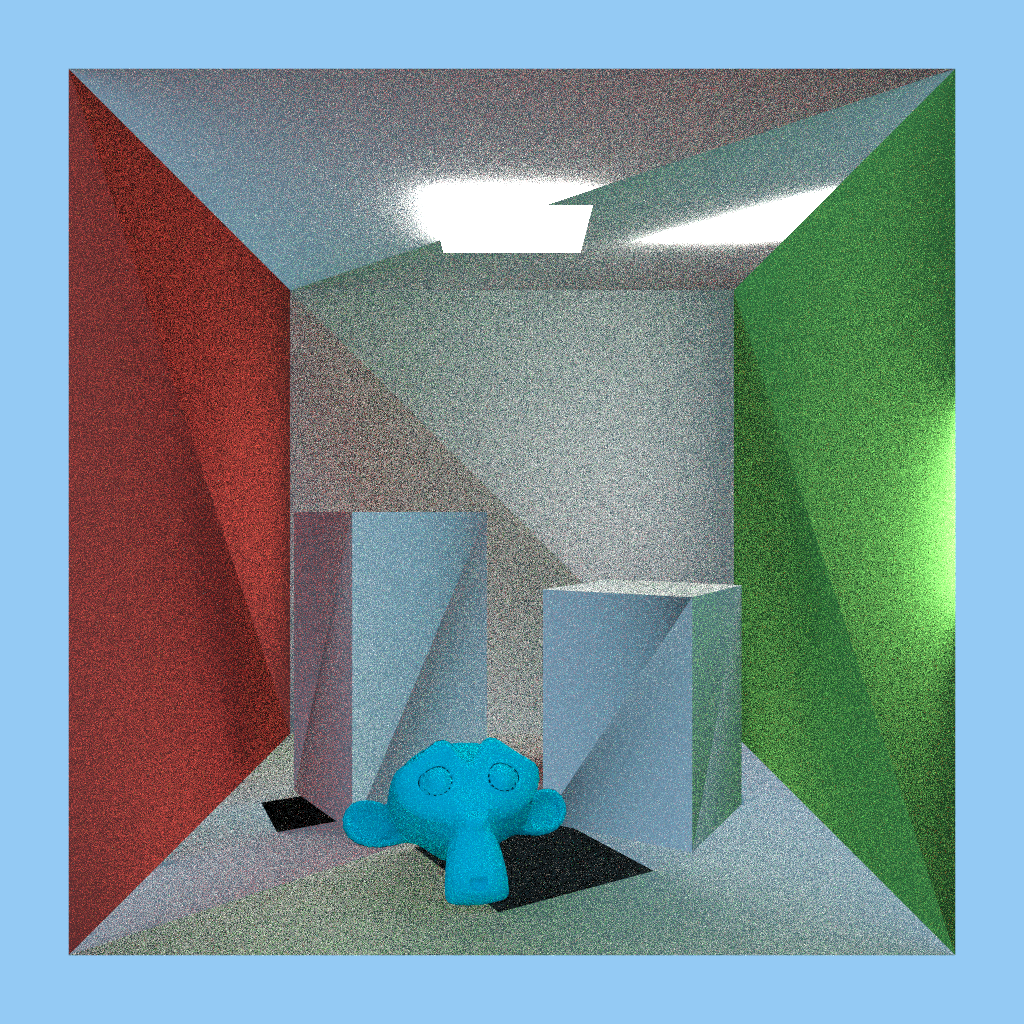
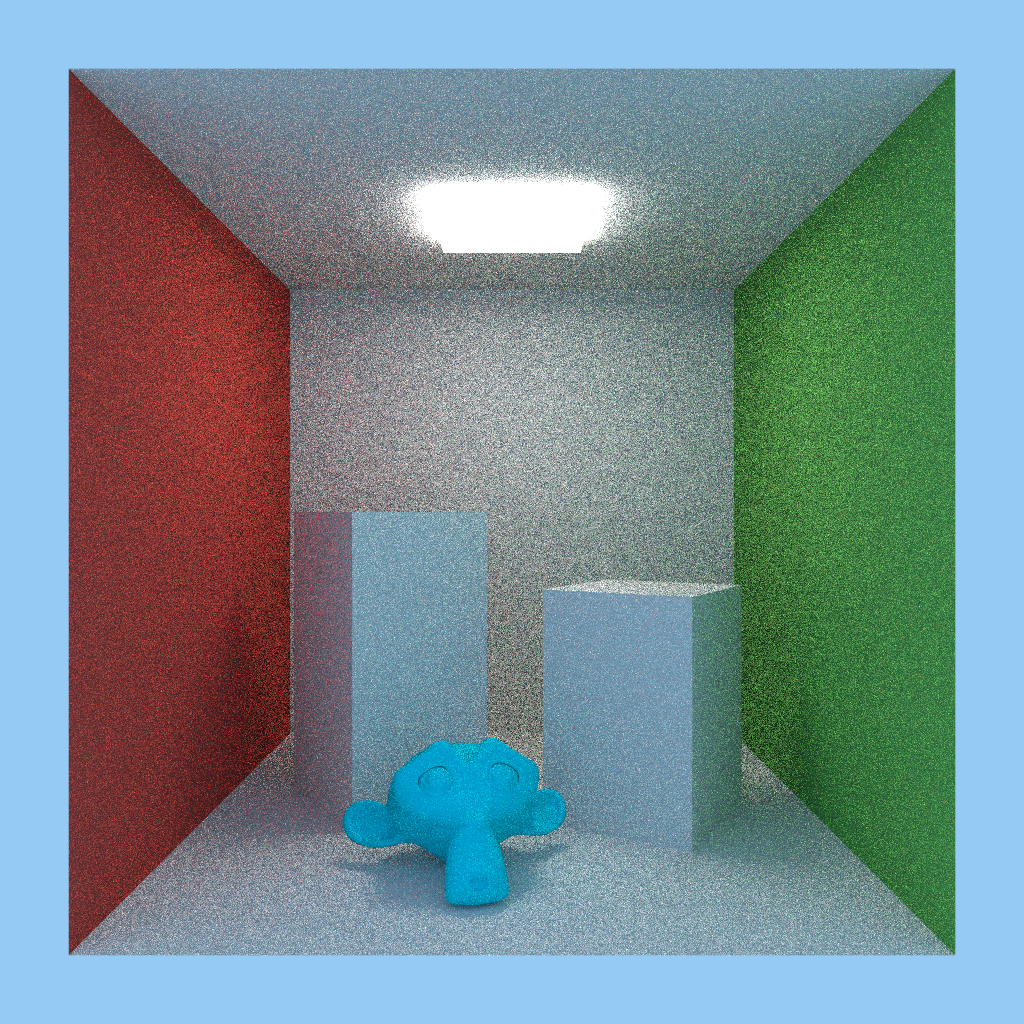
geometry fixed

diff --git a/src/integrator.cpp b/src/integrator.cpp
@@ -112,10 +112,10 @@ glm::vec3 PathTracedIntegrator::trace(Ray const& ray, Sampler& sampler) const
 			glm::vec3 const rayDirection = glm::vec3(current.D.x, current.D.y, current.D.z);
 
 			// Interpolate triangle data according to hit UV
-			glm::vec2 const uv			= { current.hit.u, current.hit.v };
-			glm::vec3 const position	= v0.position + uv.x * (v1.position - v0.position) + uv.y * (v2.position - v0.position);
-			glm::vec3 const normal		= glm::normalize(v0.normal + uv.x * v1.normal + uv.y * v2.normal);
-			glm::vec3 const tangent		= glm::normalize(v0.tangent + uv.x * v1.tangent + uv.y * v2.tangent);
+			glm::vec3 const barycentric	= { current.hit.u, current.hit.v, 1.0F - current.hit.u - current.hit.v };
+			glm::vec3 const position	= barycentric.x * v0.position + barycentric.y * v1.position + barycentric.z * v2.position;
+			glm::vec3 const normal		= glm::normalize(barycentric.x * v0.normal + barycentric.y * v1.normal + barycentric.z * v2.normal);
+			glm::vec3 const tangent		= glm::normalize(barycentric.x * v0.tangent + barycentric.y * v1.tangent + barycentric.z * v2.tangent);
 
 			// Set up TBN matrix for global/local frame conversion (also adjusts normal and tangent for backface hits)
 			bool const isBackfaceHit = glm::dot(rayDirection, normal) > 0.0F;
